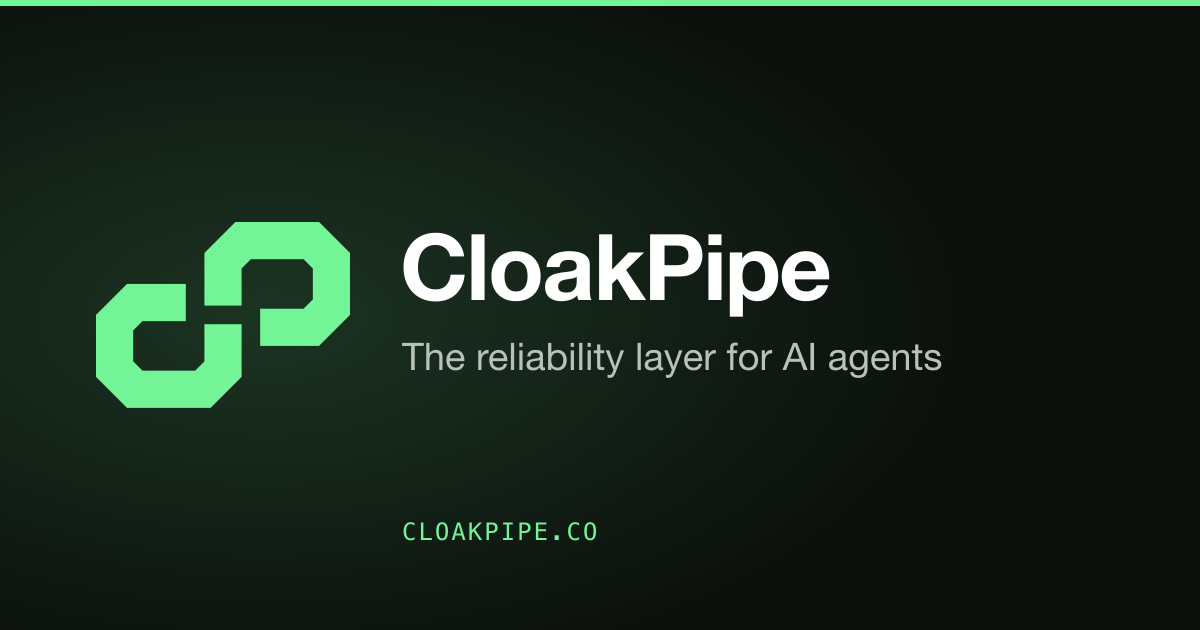
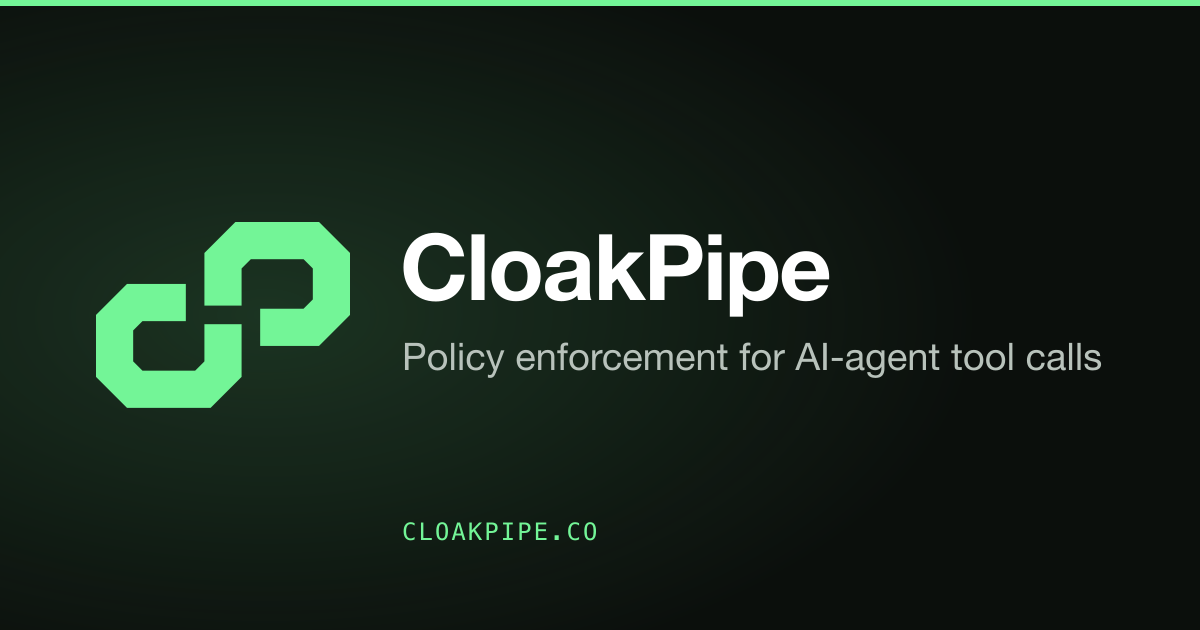
feat(site): drop pricing, platform, trust, integrations, playground and dashboard
- Delete the six pages, their partials, the playground/dashboard scripts,
  the Dashboard layout and stylesheet, and the unused hero-chart script.
- vercel.json: one-hop redirects for each removed URL and its legacy .html
  form (pricing/platform/trust temporary to /, integrations to
  /docs/integrations, playground and dashboard to /); the legacy .html
  rule now covers docs only; the CSP no longer allows the hosted API.
- Fix every referrer: nav, footer, docs sidebar, docs index, FAQ,
  integrations docs, home page; sitemap lists only live pages plus docs.
- Tagline sweep to 'Policy enforcement for AI-agent tool calls': footer,
  og:image:alt, home title and description, web manifest, icon script and
  a regenerated og.png; changelog and blog descriptions.
- Home hero leads with 'Model proposes. Code disposes.'; the primary CTA
  is Get started (/docs/quickstart). The waitlist is demoted to a
  secondary 'Hosted alerts & approvals (Team): tell us you want it' page
  with required company and opt-in checkbox.

Changed region(s): [[0.3392, 0.5429, 0.925, 0.6032]]

diff --git a/src/partials/index.html b/src/partials/index.html
@@ -2,21 +2,22 @@
 <section class="hero">
   <div class="wrap hero-grid">
     <div>
-      <div class="eyebrow reveal">Agent reliability, provable · developer preview</div>
-      <h1 class="reveal" data-d="1">The reliability<br>layer for<br>AI <span class="acc">agents.</span></h1>
+      <div class="eyebrow reveal">Policy enforcement for AI-agent tool calls · developer preview</div>
+      <h1 class="reveal" data-d="1">Model proposes.<br>Code <span class="acc">disposes.</span></h1>
       <p class="lede reveal" data-d="2">
-        CloakPipe certifies every agent release against your evals, enforces that decision on each
-        model and tool call, and keeps signed evidence anyone can verify offline.
+        Policy enforcement for teams running AI agents in production. CloakPipe is a small, self-hosted gate
+        between your agent and the tools it calls: it checks every call against a declared contract with plain
+        code, blocks anything outside it, and records each decision in a log you can verify offline.
       </p>
       <div class="hero-ctas reveal" data-d="3">
-        <a class="btn btn-lg btn-cta" href="/waitlist"><span class="corner"></span>Join the waitlist <span class="arr">→</span></a>
-        <a class="btn btn-lg" href="/docs">Read the docs <span class="arr">→</span></a>
+        <a class="btn btn-lg btn-cta" href="/docs/quickstart"><span class="corner"></span>Get started <span class="arr">→</span></a>
+        <a class="btn btn-lg" href="/docs/mcp-gate">How the gate works <span class="arr">→</span></a>
         <a class="btn btn-lg btn-gh" href="https://github.com/rohansx/cloakpipe" aria-label="CloakPipe on GitHub"><svg class="gh-mark" viewBox="0 0 16 16" width="14" height="14" aria-hidden="true" fill="currentColor"><path d="M8 0C3.58 0 0 3.58 0 8c0 3.54 2.29 6.53 5.47 7.59.4.07.55-.17.55-.38 0-.19-.01-.82-.01-1.49-2.01.37-2.53-.49-2.69-.94-.09-.23-.48-.94-.82-1.13-.28-.15-.68-.52-.01-.53.63-.01 1.08.58 1.23.82.72 1.21 1.87.87 2.33.66.07-.52.28-.87.51-1.07-1.78-.2-3.64-.89-3.64-3.95 0-.87.31-1.59.82-2.15-.08-.2-.36-1.02.08-2.12 0 0 .67-.21 2.2.82.64-.18 1.32-.27 2-.27.68 0 1.36.09 2 .27 1.53-1.04 2.2-.82 2.2-.82.44 1.1.16 1.92.08 2.12.51.56.82 1.27.82 2.15 0 3.07-1.87 3.75-3.65 3.95.29.25.54.73.54 1.48 0 1.07-.01 1.93-.01 2.2 0 .21.15.46.55.38A8.013 8.013 0 0016 8c0-4.42-3.58-8-8-8z"/></svg><span>GitHub</span></a>
       </div>
       <p class="cta-tertiary reveal" data-d="3">Running agents in production? <a href="mailto:rohan@cloakpipe.co?subject=CloakPipe%20design%20partner">Become a design partner →</a></p>
       <div class="hero-stats reveal" data-d="4">
-        <div class="hero-stat"><strong>1</strong><span>identity for the full agent release</span></div>
-        <div class="hero-stat"><strong>4</strong><span>Evaluate · Certify · Enforce · Prove</span></div>
+        <div class="hero-stat"><strong>0</strong><span>models in the allow/deny decision</span></div>
+        <div class="hero-stat"><strong>3</strong><span>Declare · Enforce · Prove</span></div>
         <div class="hero-stat"><strong>MIT</strong><span>inspectable enforcement core</span></div>
       </div>
     </div>
@@ -51,11 +52,11 @@
 <section class="wl-band" aria-labelledby="wl-band-title">
   <div class="wrap wl-band-inner reveal">
     <div>
-      <div class="eyebrow">CloakPipe Cloud · early access</div>
-      <h2 id="wl-band-title">Hosted registry, certification, runtime enforcement and signed audit packs.</h2>
-      <p>The cloud is opening in waves. The open-source CLI works today; <a href="/docs/quickstart">start with the quick start</a>.</p>
+      <div class="eyebrow">Free gate · self-hosted · MIT</div>
+      <h2 id="wl-band-title">The gate is free and runs on your machines. Hosted alerts &amp; approvals (Team) come when teams ask for them.</h2>
+      <p>Start with the <a href="/docs/quickstart">quick start</a>. If you want denials in Slack and approvals in one inbox, tell us.</p>
     </div>
-    <a class="btn btn-lg btn-cta" href="/waitlist"><span class="corner"></span>Join the waitlist <span class="arr">→</span></a>
+    <a class="btn btn-lg" href="/waitlist">Tell us you want it <span class="arr">→</span></a>
   </div>
 </section>
 
@@ -89,7 +90,7 @@
 <section class="section" id="platform">
   <div class="wrap">
     <div class="section-head reveal">
-      <div class="head-l"><div class="eyebrow">The control loop</div><h2>From change<br>to <span class="acc">verified decision.</span></h2><a class="learn-more" href="/platform">Explore the architecture <span class="arr">→</span></a></div>
+      <div class="head-l"><div class="eyebrow">The control loop</div><h2>From change<br>to <span class="acc">verified decision.</span></h2><a class="learn-more" href="/docs">Read the docs <span class="arr">→</span></a></div>
       <p>CloakPipe does not replace your evaluation platform, gateway, telemetry, or CI system. It binds their evidence to one Agent Release, applies a deterministic decision, enforces it, and records the result. Every step below is in the open-source core or the cloud today.</p>
     </div>
     <div class="surfaces reveal">
@@ -126,7 +127,7 @@
       <p>We label product state explicitly. The developer preview now runs the full loop: release identity, imported evaluations, signed certification, runtime enforcement, and offline verification. <code class="mono">make demo</code> runs all of it locally. External anchoring and release audit packs are on <code class="mono">main</code>.</p>
     </div>
     <div class="feature-grid reveal">
-      <div class="feature-card"><div class="ix"></div><h3>Available now</h3><p>Rust privacy proxy, streaming rehydration, PII pseudonymization, vault, signed ledger, and offline verifier. Agent Release manifests and registry, eval importers, signed certification with revocation, runtime release enforcement, scoped keys, production sentinels, the MCP tool gate, and the dashboard. External anchoring to RFC 3161 timestamp authorities and Sigstore Rekor, signed per-release audit packs verified offline, evaluation upload from CI and the dashboard, and an India DPDP policy pack.</p></div>
+      <div class="feature-card"><div class="ix"></div><h3>Available now</h3><p>Rust PII-masking proxy, streaming rehydration, PII pseudonymization, vault, signed ledger, and offline verifier. Agent Release manifests and registry, eval importers, signed certification with revocation, runtime release enforcement, scoped keys, production sentinels, the MCP tool gate, and the dashboard. External anchoring to RFC 3161 timestamp authorities and Sigstore Rekor, signed per-release audit packs verified offline, evaluation upload from CI and the dashboard, and an India DPDP policy pack.</p></div>
       <div class="feature-card"><div class="ix"></div><h3>Building next</h3><p>Importing Langfuse experiments, per-tenant Cedar policies from the dashboard, Rekor v2 and incremental multi-batch sealing, and certificate revocation checks. An RBI conduct pack is planned.</p></div>
       <div class="feature-card"><div class="ix"></div><h3>Design-partner phase</h3><p>Drift detection, approval workflows, canary hooks, incident timelines, SSO, and regional deployment.</p></div>
       <div class="feature-card"><div class="ix"></div><h3>Not claimed</h3><p>CloakPipe is not currently SOC 2 certified and does not yet offer a HIPAA BAA, production SAML or SCIM, managed KMS, automatic key rotation, or autonomous rollback.</p></div>
@@ -140,7 +141,7 @@
     <h2 class="reveal">Certify the release.<br><span class="acc">Control the runtime.</span><br>Verify the evidence.</h2>
     <p class="reveal" data-d="1">We are working with design partners operating real AI agents in production. Bring one agent, one critical workflow, and the changes you need to control.</p>
     <div class="ctas reveal" data-d="2">
-      <a class="btn btn-lg btn-cta" href="/waitlist"><span class="corner"></span>Join the waitlist <span class="arr">→</span></a>
+      <a class="btn btn-lg btn-cta" href="/docs/quickstart"><span class="corner"></span>Get started <span class="arr">→</span></a>
       <a class="btn btn-lg" href="/docs">Read the docs <span class="arr">→</span></a>
       <a class="btn btn-lg btn-gh" href="https://github.com/rohansx/cloakpipe" aria-label="CloakPipe on GitHub"><svg class="gh-mark" viewBox="0 0 16 16" width="14" height="14" aria-hidden="true" fill="currentColor"><path d="M8 0C3.58 0 0 3.58 0 8c0 3.54 2.29 6.53 5.47 7.59.4.07.55-.17.55-.38 0-.19-.01-.82-.01-1.49-2.01.37-2.53-.49-2.69-.94-.09-.23-.48-.94-.82-1.13-.28-.15-.68-.52-.01-.53.63-.01 1.08.58 1.23.82.72 1.21 1.87.87 2.33.66.07-.52.28-.87.51-1.07-1.78-.2-3.64-.89-3.64-3.95 0-.87.31-1.59.82-2.15-.08-.2-.36-1.02.08-2.12 0 0 .67-.21 2.2.82.64-.18 1.32-.27 2-.27.68 0 1.36.09 2 .27 1.53-1.04 2.2-.82 2.2-.82.44 1.1.16 1.92.08 2.12.51.56.82 1.27.82 2.15 0 3.07-1.87 3.75-3.65 3.95.29.25.54.73.54 1.48 0 1.07-.01 1.93-.01 2.2 0 .21.15.46.55.38A8.013 8.013 0 0016 8c0-4.42-3.58-8-8-8z"/></svg><span>GitHub</span></a>
     </div>

diff --git a/README.md b/README.md
@@ -8,13 +8,17 @@ npm ci
 npm run dev        # http://localhost:4321
 npm run build      # static site in dist/
 node scripts/check-links.mjs   # every internal link in dist/ must resolve
-npm test           # unit tests for the waitlist function (node:test, no deps)
+npm test           # unit tests: waitlist function, Apps Script, site content rules (node:test)
 npm run test:site  # build + link check
 ```
 
 - Pages: `src/pages/` (docs are Markdown in `src/pages/docs/`, sidebar order in `src/lib/docs.ts`).
 - Page bodies: `src/partials/*.html`; shared chrome: `src/components/`, `src/layouts/`.
 - Headers, redirects and the Content-Security-Policy: `vercel.json`.
+- Pages: home, `/docs/*`, `/blog`, `/changelog` and `/waitlist`. The old pricing, platform, trust,
+  integrations, playground and dashboard pages are gone; `vercel.json` redirects their URLs.
+- CI (`.github/workflows/ci.yml`) runs `npm test` and `npm run test:site` on every pull request.
+  `test/site-content.test.js` also fails on retired positioning phrases.
 - Waitlist: page `src/pages/waitlist.astro`, Vercel Function `api/waitlist.js` (logic in `api/_lib/`, tests in
   `test/`), Google Apps Script `apps-script/Code.gs`.
 
@@ -22,7 +26,9 @@ The product itself is open source at [rohansx/cloakpipe](https://github.com/roha
 
 ## Waitlist setup
 
-CloakPipe Cloud is in early access, so the site's only call to action is the waitlist at `/waitlist`. The form
+The primary call to action is the open-source quick start (`/docs/quickstart`). `/waitlist` is secondary: it
+is "Hosted alerts & approvals (Team): tell us you want it", the count of teams that want a hosted plane,
+de-duplicated by organisation, so company and a "wants hosted alerts/approvals" checkbox are required. The form
 posts to the Vercel Function `POST /api/waitlist` (`api/waitlist.js`), which checks the request (method, origin,
 rate limit, honeypot, timing, field validation and limits, formula neutralisation) and forwards the clean row
 to a **Google Apps Script web app** bound to the sheet ([`apps-script/Code.gs`](apps-script/Code.gs)). The
@@ -64,9 +70,12 @@ function refuses secrets shorter than 32 characters. Keep it out of the reposito
 
 The script creates the tab if it is missing and writes the header row when the tab is empty:
 
-| A | B | C | D | E | F | G | H | I | J | K |
-|---|---|---|---|---|---|---|---|---|---|---|
-| Timestamp (UTC) | Email | Name | Company | Role | Use case | Source page | UTM source | UTM medium | UTM campaign | User agent |
+| A | B | C | D | E | F | G | H | I | J | K | L |
+|---|---|---|---|---|---|---|---|---|---|---|---|
+| Timestamp (UTC) | Email | Name | Company | Role | Use case | Source page | UTM source | UTM medium | UTM campaign | User agent | Wants hosted alerts/approvals |
+
+New columns are only ever appended. On a sheet created before column L existed, type the L1 header by hand
+and redeploy the script (a new version of the same deployment) so it writes the column.
 
 Email must stay in column B: it is read for de-duplication (case-insensitive). IP addresses are never stored;
 "User agent" is a short family such as `Chrome/macOS`. Values starting with `= + - @` are prefixed with `'` by
@@ -143,7 +152,7 @@ would create a second URL.) Script property changes take effect immediately, wit
   ```sh
   curl -si https://cloakpipe.co/api/waitlist \
     -H 'origin: https://cloakpipe.co' -H 'content-type: application/json' -H 'accept: application/json' \
-    --data '{"email":"you+test2@example.com","role":"Other"}'
+    --data '{"email":"you+test2@example.com","company":"Test","wants_hosted":"yes","role":"Other"}'
   # HTTP/2 201 … {"status":"joined"}
   ```
 
@@ -170,7 +179,9 @@ only; email, name and company are never sent. After a no-JS post the event is se
 | Field | Rules |
 |---|---|
 | `email` | required, trimmed and lowercased, max 254, must look like an address |
-| `name`, `company` | optional, max 120 |
+| `company` | required (company or organisation), max 120 |
+| `wants_hosted` | required: `yes`, `on` or `true` (the checkbox) |
+| `name` | optional, max 120 |
 | `role` | optional, one of `Engineering/ML`, `Platform/SRE`, `Security/Compliance`, `Founder/Exec`, `Other` |
 | `use_case` | optional, max 1000 |
 | `cp_hp` | honeypot, must be empty (a filled one gets a fake success and nothing is stored) |
@@ -184,7 +195,7 @@ localhost outside production. Each warm instance allows about 5 requests per min
 |---|---|---|
 | Added | `201 {"status":"joined"}` | `303 /waitlist?joined=1#wl-joined` |
 | Already on the list | `200 {"status":"already"}` | `303 /waitlist?joined=already#wl-already` |
-| Invalid input | `400 {"error":"invalid_email"\|"too_long"\|"invalid_role"\|"too_fast"\|"invalid"\|"invalid_timing", "field"?, "message"}` | `303 /waitlist?error=<code>#wl-error` |
+| Invalid input | `400 {"error":"invalid_email"\|"too_long"\|"invalid_role"\|"company_required"\|"hosted_required"\|"too_fast"\|"invalid"\|"invalid_timing", "field"?, "message"}` | `303 /waitlist?error=<code>#wl-error` |
 | Wrong origin | `403 {"error":"forbidden"}` | same, `?error=forbidden` |
 | Rate limited | `429 {"error":"rate_limited"}` + `Retry-After: 60` | same, `?error=rate_limited` |
 | Bad content type / too large | `415` / `413` | same |

diff --git a/src/pages/docs/faq.md b/src/pages/docs/faq.md
@@ -8,7 +8,7 @@ description: Common questions about CloakPipe and an honest list of what it does
 
 ## Is CloakPipe open source?
 
-The core is, under MIT, in [rohansx/cloakpipe](https://github.com/rohansx/cloakpipe): the privacy proxy, vault, MCP server and interceptor, evidence ledger and the offline verifier (the verifier crate is Apache-2.0). Release manifests, evaluation import, certification, the MCP tool gate, external anchoring and release audit packs are on `main` of the same repository. CloakPipe Cloud (the hosted registry, runtime enforcement, evaluation upload, audit pack downloads, hosted anchoring, date-range auditor packs, the DPDP pack and the dashboard) is not open source. See [Pricing](/pricing) for what each tier includes.
+The core is, under MIT, in [rohansx/cloakpipe](https://github.com/rohansx/cloakpipe): the privacy proxy, vault, MCP server and interceptor, evidence ledger and the offline verifier (the verifier crate is Apache-2.0). Release manifests, evaluation import, certification, the MCP tool gate, external anchoring and release audit packs are on `main` of the same repository. CloakPipe Cloud (the hosted registry, runtime enforcement, evaluation upload, audit pack downloads, hosted anchoring, date-range auditor packs, the DPDP pack and the dashboard) is not open source.
 
 ## Do I need CloakPipe Cloud to certify a release?
 

diff --git a/src/pages/docs/integrations.md b/src/pages/docs/integrations.md
@@ -6,7 +6,7 @@ description: Providers, frameworks, gateways, MCP, evaluation tools and CI that 
 
 # Integrations
 
-The full catalogue, with what is shipped and what is planned, is on the **[Integrations page](/integrations)**. This page is the short version for developers.
+What CloakPipe works with today, and where the source lives. Anything not listed here is not integrated yet.
 
 ## LLM providers
 
@@ -37,7 +37,3 @@ The open-source proxy also supports the Anthropic Messages API.
 - JUnit XML (pytest, Jest, Go, JUnit, cargo-nextest), Braintrust and Langfuse: [Evaluation import](/docs/evaluation).
 - GitHub Actions: [the certify action](/docs/certification#github-action).
 - <span class="badge cloud">Cloud</span> Uploading the same reports to CloakPipe Cloud from CI or the dashboard: [Evaluation import](/docs/evaluation#upload-to-cloakpipe-cloud).
-
-## Try it in the browser
-
-The [playground](/playground) runs CloakPipe's detection on text you paste and shows the masked output.

diff --git a/src/pages/docs/index.md b/src/pages/docs/index.md
@@ -55,4 +55,4 @@ Every page says what state each feature is in:
 - [Quick start](/docs/quickstart): install the CLI and certify a sample release in a few minutes.
 - [Certification](/docs/certification): the policy rules, signing and verification.
 - [MCP tool gate](/docs/mcp-gate): enforce certification at an agent's tool calls.
-- [Integrations](/docs/integrations): providers, frameworks and the [playground](/playground).
+- [Integrations](/docs/integrations): providers, frameworks, MCP and CI.
